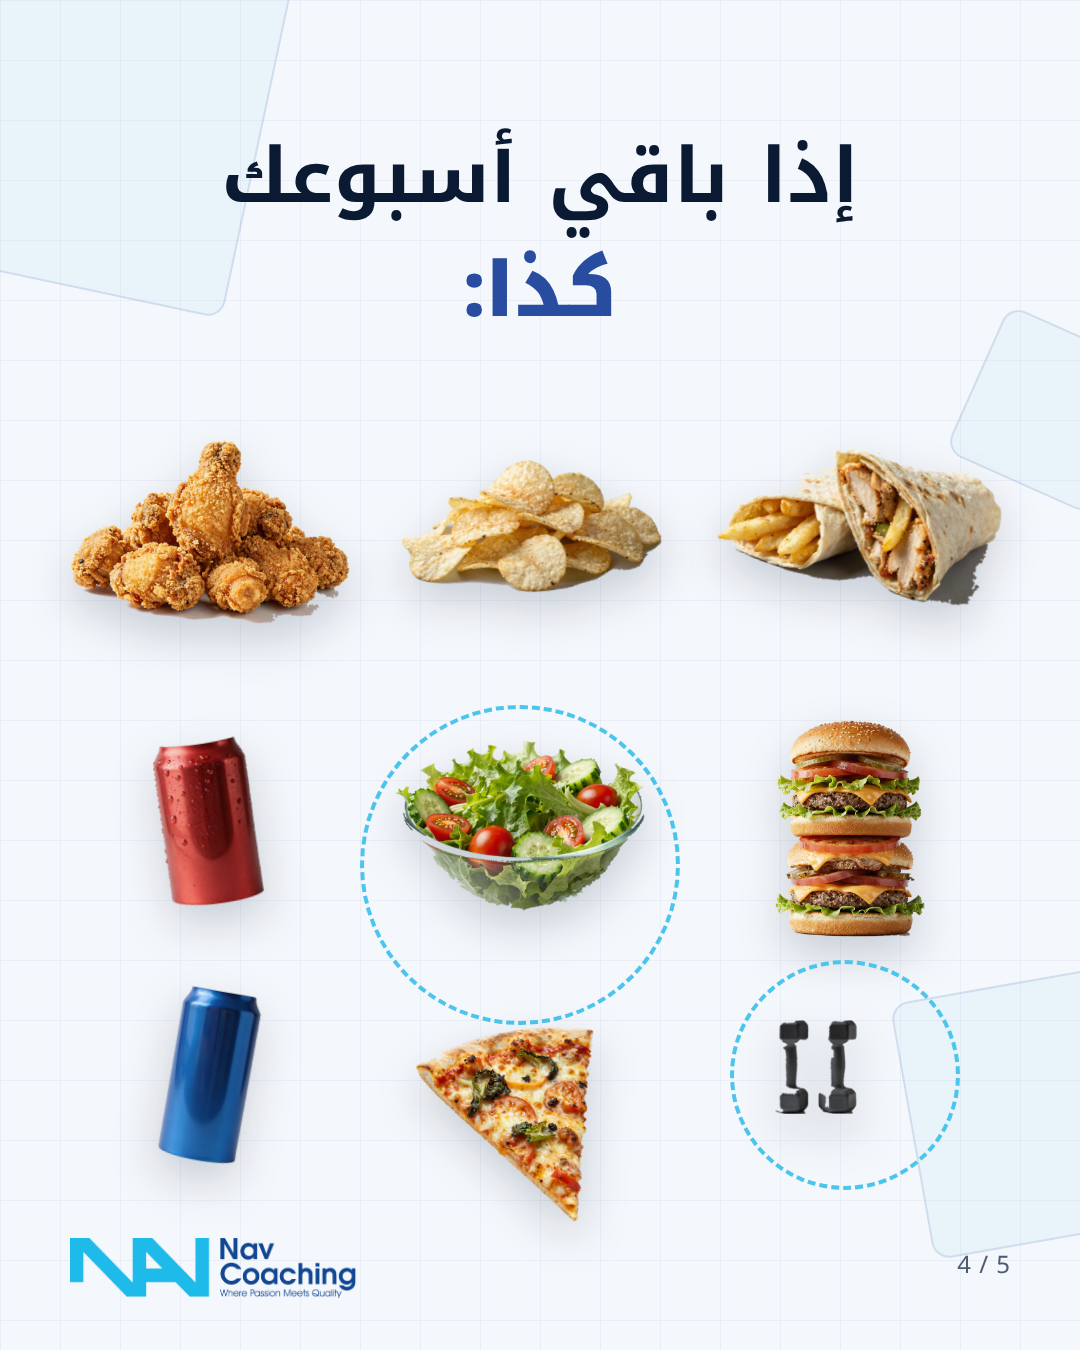
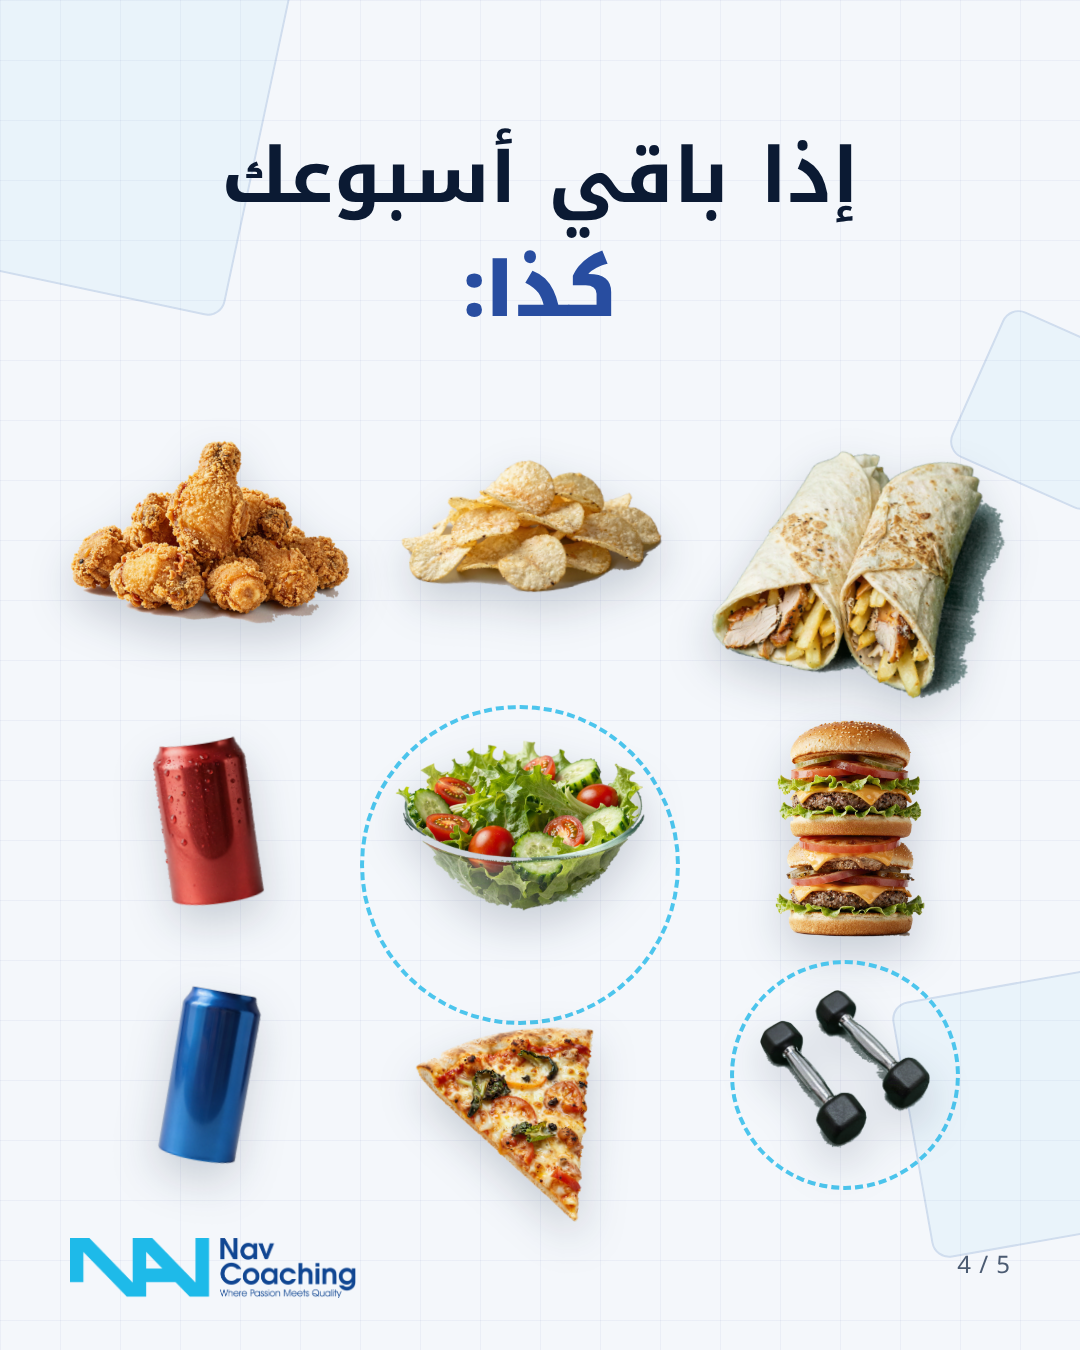
pattern carousel: regenerate dumbbells and shawarma with clean cutouts
Claude-Session: https://claude.ai/code/session_014K8VAaJoHdbEmLTmDkRNee

Changed region(s): [[0.6417, 0.3111, 0.9472, 0.5289], [0.7028, 0.7156, 0.8556, 0.8711]]

diff --git a/instagram/pattern/slides.html b/instagram/pattern/slides.html
@@ -23,16 +23,16 @@ let h='';
 h+=`<section class="s">${bg()}<h1 style="top:250px;font-size:92px">هذي ما راح<br><b>تسمّنك…</b></h1>${I('pizza',130,700,360,-8)}${I('donut',580,720,370,6)}${foot(1)}</section>`;
 h+=`<section class="s">${bg()}<h1>إذا باقي أسبوعك<br><b>كذا:</b></h1>
 ${O(80,415,260)}${I('pizza',115,440,190,-8)}
-${I('dumbbell',420,470,150,0)}${I('bottle',690,420,95,12)}${I('apple',820,480,170)}
+${I('dumbbell',390,450,220,0)}${I('bottle',690,420,95,12)}${I('apple',820,480,170)}
 ${I('bowl',70,760,280)}${I('toast',400,770,260,-6)}
 ${O(735,720,270)}${I('donut',765,750,210,6)}
 ${I('salmon',190,1000,280)}${I('oats',580,1010,280)}
 ${foot(2)}</section>`;
-h+=`<section class="s">${bg()}<h1 style="top:250px;font-size:92px">وهذي ما راح<br><b>تنحّفك…</b></h1>${I('salad',120,720,400)}${I('dumbbell',640,700,230)}${foot(3)}</section>`;
+h+=`<section class="s">${bg()}<h1 style="top:250px;font-size:92px">وهذي ما راح<br><b>تنحّفك…</b></h1>${I('salad',120,720,400)}${I('dumbbell',600,720,330)}${foot(3)}</section>`;
 h+=`<section class="s">${bg()}<h1>إذا باقي أسبوعك<br><b>كذا:</b></h1>
 ${I('fried',70,440,280)}${I('chips',400,460,260,-6)}${I('shawarma',720,450,280,8)}
 ${I('soda',160,740,95,-8)}${O(360,705,320)}${I('salad',395,740,250)}${I('burger',775,720,150)}
-${I('energy',170,990,80,10)}${I('pizza',420,1030,180,-4)}${O(730,960,230)}${I('dumbbell',775,1020,140)}
+${I('energy',170,990,80,10)}${I('pizza',420,1030,180,-4)}${O(730,960,230)}${I('dumbbell',760,990,170)}
 ${foot(4)}</section>`;
 h+=`<section class="s">${bg()}<div class="big">ولا <span class="u">أكلة وحدة</span> تسمّنك.<br>ولا <span class="u">أكلة وحدة</span> تنحّفك.<br><br><b style="color:#284da0">نمط أكلك</b> طول الأسبوع<br>هو <span class="u">اللي يفرق</span>.</div><div class="foot2">تبي نمط يناسب يومك؟ <b>navcoaching.com</b></div>${foot(5)}</section>`;
 root.innerHTML=h;
